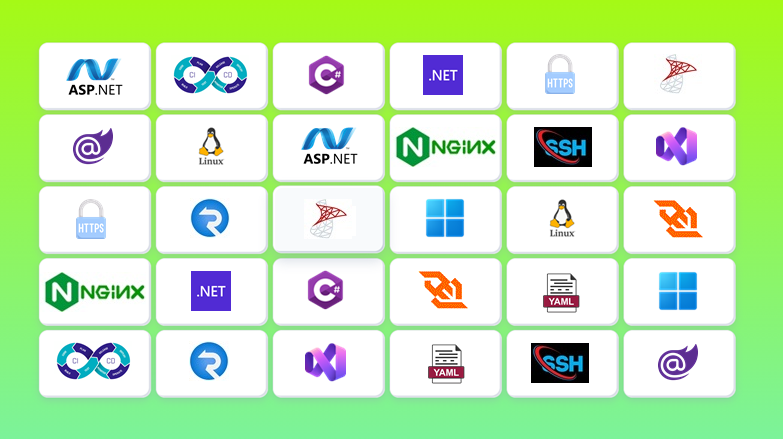
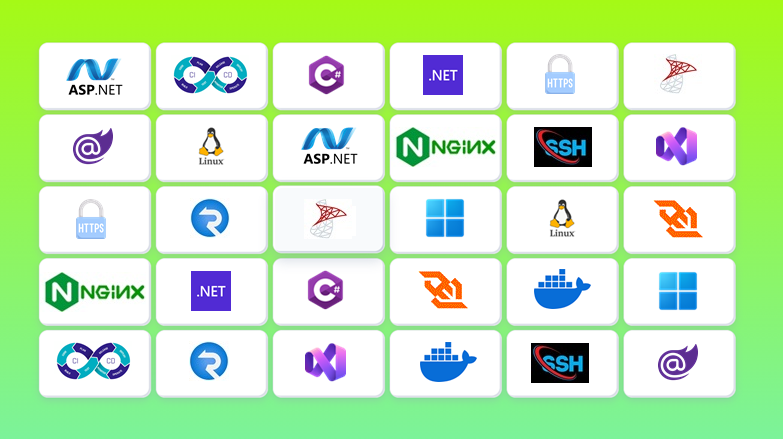
Update Doc

Changed region(s): [[0.6743, 0.6219, 0.7663, 0.7107], [0.5211, 0.7699, 0.613, 0.8884]]

diff --git a/Readme.md b/Readme.md
@@ -20,9 +20,9 @@
 ---
 ### Deployment Tech Stack
 
-![image info](Docs/images/yaml.png) 
 ![image info](Docs/images/CICD.png) 
 ![image info](Docs/images/ssh.jpg) 
+![image info](Docs/images/docker.png) 
 ![image info](Docs/images/linux.png) 
 ![image info](Docs/images/nginx.jpg) 
 ![image info](Docs/images/https.png) 
